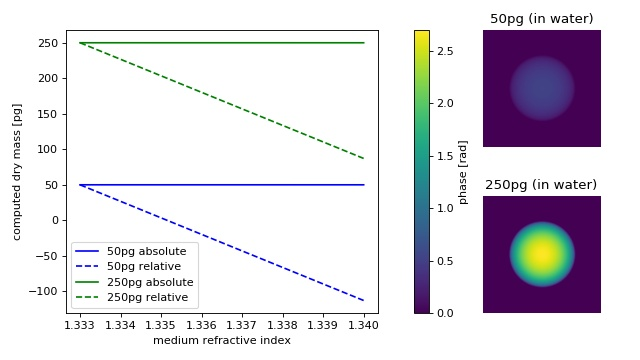
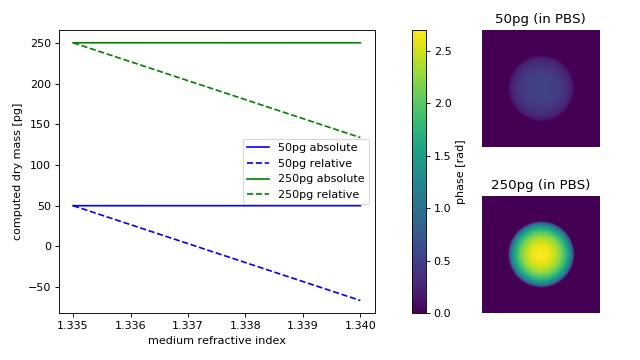
fixed wrong assumption about definition of dry mass in cells

diff --git a/examples/mass_relative_vs_absolute.py b/examples/mass_relative_vs_absolute.py
@@ -2,7 +2,8 @@
 
 Relative dry mass is the dry mass computed relative to the
 surrounding medium. If the refractive index of the surrounding
-medium is not water (1.333), then the relative dry mass underestimates
+does not match that of the intracellular fluid (approximately 1.335),
+then the relative dry mass underestimates
 the actual dry mass. For a spherical cell, the absolute (corrected)
 dry mass can be computed as described in the theory section on
 :ref:`dry mass computation <section_theory_dry_mass>`.
@@ -41,9 +42,9 @@ radius = 10  # [µm]
 center = (100, 100)  # [px]
 
 dry_masses = [50, 250]  # [pg]
-medium_indices = np.linspace(1.333, 1.34, 5)
+medium_indices = np.linspace(1.335, 1.34, 5)
 
-qpi_water = {}
+qpi_pbs = {}
 m_abs = {}
 m_rel = {}
 phase_data = np.zeros(grid_size, dtype=float)
@@ -55,7 +56,7 @@ for m in dry_masses:
     r_m = radius * 1e-6
     alpha_m3g = alpha * 1e-6
     m_g = m * 1e-12
-    n = 1.333 + 3 * alpha_m3g * m_g / (4 * np.pi * (r_m**3))
+    n = 1.335 + 3 * alpha_m3g * m_g / (4 * np.pi * (r_m**3))
     for medium_index in medium_indices:
         # generate example dataset
         qpi = qpsphere.simulate(radius=r_m,
@@ -80,25 +81,25 @@ for m in dry_masses:
                                alpha=alpha,
                                rad_fact=1.2)
         m_rel[m].append(mr * 1e12)
-        if medium_index == 1.333:
-            qpi_water[m] = qpi
+        if medium_index == 1.335:
+            qpi_pbs[m] = qpi
 
 # plot results
 fig = plt.figure(figsize=(8, 4.5))
 matplotlib.rcParams["image.interpolation"] = "bicubic"
 # phase images
-kw = {"vmax": qpi_water[dry_masses[1]].pha.max(),
-      "vmin": qpi_water[dry_masses[1]].pha.min()}
+kw = {"vmax": qpi_pbs[dry_masses[1]].pha.max(),
+      "vmin": qpi_pbs[dry_masses[1]].pha.min()}
 
 ax1 = plt.subplot2grid((2, 3), (0, 2))
-ax1.set_title("{}pg (in water)".format(dry_masses[0]))
+ax1.set_title("{}pg (in PBS)".format(dry_masses[0]))
 ax1.axis("off")
-map1 = ax1.imshow(qpi_water[dry_masses[0]].pha, **kw)
+map1 = ax1.imshow(qpi_pbs[dry_masses[0]].pha, **kw)
 
 ax2 = plt.subplot2grid((2, 3), (1, 2))
-ax2.set_title("{}pg (in water)".format(dry_masses[1]))
+ax2.set_title("{}pg (in PBS)".format(dry_masses[1]))
 ax2.axis("off")
-ax2.imshow(qpi_water[dry_masses[1]].pha, **kw)
+ax2.imshow(qpi_pbs[dry_masses[1]].pha, **kw)
 
 # overview plot
 ax3 = plt.subplot2grid((2, 3), (0, 0), colspan=2, rowspan=2)

diff --git a/drymass/anasphere.py b/drymass/anasphere.py
@@ -83,13 +83,13 @@ def absolute_dry_mass_sphere(qpi, radius, center, alpha=.18, rad_fact=1.2):
 
     m_abs = m_rel + m_sup
     m_rel = lambda / (2*PI*alpha) * phi_tot * deltaA
-    m_sup = 4*PI / (3*alpha) * radius^3 (n_med - n_water)
+    m_sup = 4*PI / (3*alpha) * radius^3 (n_med - n_PBS)
 
     with the vacuum wavelength `lambda`, the total phase
     retardation in the area of interest `phi_tot`, the pixel
     area `deltaA`, the refractive index of the medium `n_med`
-    (stored in `qpi.meta`), and the refractive index of water
-    `n_water`=1.333.
+    (stored in `qpi.meta`), and the refractive index of phosphate
+    buffered saline (PBS) `n_PBS`=1.335.
 
     This is the *absolute* dry mass, because it takes into account
     the offset caused by the suppressed density in the phase data.
@@ -125,7 +125,7 @@ def absolute_dry_mass_sphere(qpi, radius, center, alpha=.18, rad_fact=1.2):
                                rad_fact=rad_fact)
     medium_index = qpi["medium index"]
     dm_sup = 4 / 3 * np.pi / (alpha * 1e-6) * \
-        radius**3 * (medium_index - 1.333)
+        radius**3 * (medium_index - 1.335)
     return dm_rel + dm_sup
 
 

diff --git a/tests/test_analyze_sphere_drymass.py b/tests/test_analyze_sphere_drymass.py
@@ -4,7 +4,7 @@ import qpsphere
 from drymass.anasphere import absolute_dry_mass_sphere, relative_dry_mass
 
 
-def defaultsim(medium_index=1.333,
+def defaultsim(medium_index=1.335,
                m_g=150e-12):
     grid_size = (100, 100)
     center = (50, 50)
@@ -13,7 +13,7 @@ def defaultsim(medium_index=1.333,
     r_m = 10 * 1e-6
     alpha = .18
     alpha_m3g = alpha * 1e-6
-    n = 1.333 + 3 * alpha_m3g * m_g / (4 * np.pi * (r_m**3))
+    n = 1.335 + 3 * alpha_m3g * m_g / (4 * np.pi * (r_m**3))
     # generate example dataset
     qpi = qpsphere.simulate(radius=r_m,
                             sphere_index=n,
@@ -52,7 +52,7 @@ def test_higher_medium():
 
 def test_negative():
     m_g = 5e-12
-    medium_index = 1.334
+    medium_index = 1.336
     kwargs = defaultsim(m_g=m_g, medium_index=medium_index)
     mrel = relative_dry_mass(**kwargs)
     mabs = absolute_dry_mass_sphere(**kwargs)

diff --git a/docs/sec_theory_notes.rst b/docs/sec_theory_notes.rst
@@ -9,10 +9,13 @@ Theory Notes
 .. _section_theory_dry_mass:
 
 Computation of cell dry mass
-----------------------------
+============================
+Definition
+----------
 The concept of cell dry mass computation was first introduced by Barer
 :cite:`Barer_1952`. The dry mass :math:`m` of a biological cell is defined
-by its non-aqueous fraction :math:`f(x,y,z)`, e.g. ions, proteins, and DNA.
+by its non-aqueous fraction :math:`f(x,y,z)`, i.e. the number of grams of
+dry proteins and DNA within the cell volume (excluding salts).
 
 .. math::
 
@@ -24,39 +27,58 @@ constant called the refraction increment :math:`\alpha` (units [mL/g])
 
 .. math::
 
-  n(x,y,z) - n_\text{water} = \alpha f(x,y,z)
+  n(x,y,z) = n_\text{intra} + \alpha f(x,y,z)
 
-with the RI of water :math:`n_\text{water}` = 1.333.
-In QPI, the RI is measured indirectly as a projected
-quantitative phase retardation image :math:`\phi(x,y)`.
-
-.. math::
-  :label: phiri
-
-  \phi(x,y) = \frac{2 \pi}{\lambda} \int (n(x,y,z) - n_\text{med}) \, dz
-
-with the vacuum wavelength :math:`\lambda` of the imaging light. 
-Integrating the above equation over the detector area :math:`(x,y)` yields
+with the RI of the intracellular fluid :math:`n_\text{intra}`,
+a dilute salt solution. These two equations can be combined to
 
 .. math::
   :label: intmass
   
-  m = \frac{1}{\alpha} \cdot \iiint (n(x,y,z) - n_\text{water}) \, dx dy dz
+  m = \frac{1}{\alpha} \cdot \iiint (n(x,y,z) - n_\text{intra}) \, dx dy dz.
 
-in which equation :eq:`phiri` can be inserted. However, if the medium
-surrounding the cell is not water (:math:`n_\text{med} \neq n_\text{water}`),
-then the phase :math:`\phi`
-is measured relative to the higher RI of the medium :math:`n_\text{med}`
-which causes an underestimation of the dry mass. For instance, many cell
-types are immersed in phosphate buffered saline (PBS) with an RI of 1.335.
-The resulting error in dry mass made for a spherical cell with a constant
-RI of 1.37 is 5\%. Therefore, the this mass is called
-"relative dry mass" :math:`m_\text{rel}`.
+
+In QPI, the RI is measured indirectly
+as a projected quantitative phase retardation image :math:`\phi(x,y)`.
 
 .. math::
 
-  m_\text{rel} = \frac{\lambda}{2 \pi \alpha} \cdot \iint \phi(x,y) \, dx dy.
+  \phi(x,y) = \frac{2 \pi}{\lambda} \int (n(x,y,z) - n_\text{med}) \, dz
 
+with the vacuum wavelength :math:`\lambda` of the imaging light and the
+refractive index of the cell-embedding medium :math:`n_\text{med}`. 
+Integrating the above equation over the detector area :math:`(x,y)` yields
+
+.. math::
+  :label: phiri
+
+  \iint \phi(x,y) \, dx dy = \frac{2 \pi}{\lambda} \iiint (n(x,y,z) - n_\text{med}) \, dx dy dz
+
+
+If the embedding medium has the same refractive index as the intracellular solute
+(:math:`n_\text{med} = n_\text{intra}`),
+then equations :eq:`intmass` and :eq:`phiri` can be combined to
+
+.. math::
+
+  m_\text{med=intra} = \frac{\lambda}{2 \pi \alpha} \cdot \iint \phi(x,y) \, dx dy.
+
+Relative and absolute dry mass
+------------------------------
+If however the medium surrounding the cell has a different refractive index
+(:math:`n_\text{med} \neq n_\text{intra}`), then the phase :math:`\phi`
+is measured relative to the RI of the medium :math:`n_\text{med}`
+which causes an underestimation of the dry mass if
+:math:`n_\text{med} > n_\text{intra}`. For instance, a cell could
+be immersed in a protein solution or embedded in a hydrogel with a refractive
+index of :math:`n_\text{med}` = :math:`n_\text{intra}` + 0.002.
+The resulting error in dry mass made for a spherical cell with a constant
+RI of 1.37 is 5\%. This mass is called "relative dry mass" :math:`m_\text{rel}`.
+
+.. math::
+
+  m_\text{rel} = \frac{\lambda}{2 \pi \alpha} \cdot \iint \phi(x,y) \, dx dy,
+ 
 For a discrete image, this formula simplifies to
 
 .. math::
@@ -73,22 +95,33 @@ spherical mass.
    
 .. math::
 
-  m_\text{abs} &= \frac{1}{\alpha} \cdot \iiint (n(x,y,z) - n_\text{med} + n_\text{med} - n_\text{water}) \, dx dy dz \\
-               &= m_\text{rel} + \frac{4\pi}{3\alpha} R^3 (n_\text{med} - n_\text{water})
+  m_\text{abs} &= \frac{1}{\alpha} \cdot \iiint (n(x,y,z) - n_\text{med} + n_\text{med} - n_\text{intra}) \, dx dy dz \\
+               &= m_\text{rel} + \frac{4\pi}{3\alpha} R^3 (n_\text{med} - n_\text{intra})
 
 For a visualization of the deviation of the relative dry mass from the actual dry mass
 for spherical objects, please have a look at the
 :ref:`relative vs. absolute dry mass example <example_mass_relative_vs_absolute>`. 
 
-In DryMass, the default refraction increment is :math:`\alpha` = 0.18 mL/g, as
-suggested for cells based on the refraction increment of cellular
-constituents by references :cite:`Barer_1954` and :cite:`Barer_1953`.
-The refraction increment can be manually set using the configuration key
-"refraction increment" in the "sphere" section.
 
-Please note that the above considerations are not always valid;
-The refraction increment is little dependent on pH and temperature, but may be
-strongly dependent on wavelength (e.g. serum albumin
-:math:`\alpha_\text{SA@366nm}` = 0.198 mL/g and
-:math:`\alpha_\text{SA@656nm}` = 0.179 mL/g) :cite:`Barer_1954`.
+Notes and gotchas
+-----------------
+- **The default refraction increment in DryMass** is
+  :math:`\alpha` = 0.18 mL/g, as
+  suggested for cells based on the refraction increment of cellular
+  constituents by references :cite:`Barer_1954` and :cite:`Barer_1953`.
+  The refraction increment can be manually set using the configuration key
+  "refraction increment" in the "sphere" section.
+
+- **Variations in the refraction increment** may occur and
+  thus the above considerations are not always valid.
+  The refraction increment is little dependent on pH and temperature, but may be
+  strongly dependent on wavelength (e.g. serum albumin
+  :math:`\alpha_\text{SA@366nm}` = 0.198 mL/g and
+  :math:`\alpha_\text{SA@656nm}` = 0.179 mL/g) :cite:`Barer_1954`.
+
+
+- **The refractive index of the intracellular fluid** in DryMass is assumed to be
+  :math:`n_\text{intra}` = 1.335, an educated guess based on the refractive index
+  of phosphate buffered saline (PBS), whose osmolarity and ion concentrations
+  match those of the human body.
 
